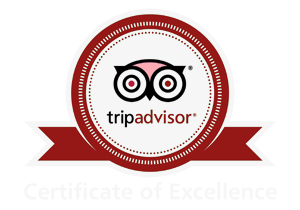
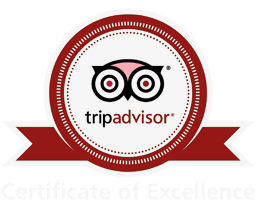
tripadvisor

Changed region(s): [[0.1868, 0.0571, 0.8093, 0.8286], [0.8093, 0.6, 0.9339, 0.7714], [0.0623, 0.6, 0.1868, 0.7714]]

diff --git a/index.html b/index.html
@@ -100,16 +100,16 @@
                 </div>
                 <div class="footer_right">
 
-                        <div class="widCOELogo">
-                            <a target="_blank" href="https://www.tripadvisor.com/Restaurant_Review-g189541-d783966-Reviews-Atlas_bar-Copenhagen_Zealand.html"><img src="img/tripadvisor.png" alt="TripAdvisor" class="widCOEImg" id="CDSWIDCOELOGO"></a>
-                        </div>
-                        <div class="widCOELink">
-                            <a target="_blank" onclick="ta.cds.handleTALink(14348,this);return true;" href="https://www.tripadvisor.com/Restaurant_Review-g189541-d783966-Reviews-Atlas_bar-Copenhagen_Zealand.html" rel="nofollow"></a>
-                        </div>
+                    <div class="widCOELogo">
+                        <a target="_blank" href="https://www.tripadvisor.com/Restaurant_Review-g189541-d783966-Reviews-Atlas_bar-Copenhagen_Zealand.html"><img src="img/tripadvisor.png" alt="TripAdvisor" class="widCOEImg" id="CDSWIDCOELOGO"></a>
+                    </div>
+                    <div class="widCOELink">
+                        <a target="_blank" onclick="ta.cds.handleTALink(14348,this);return true;" href="https://www.tripadvisor.com/Restaurant_Review-g189541-d783966-Reviews-Atlas_bar-Copenhagen_Zealand.html" rel="nofollow"></a>
                     </div>
                 </div>
-
             </div>
+
+        </div>
 
         </div>
     </section>

diff --git a/index.css b/index.css
@@ -154,6 +154,10 @@ body {
     display: flex;
     text-align: center;
     filter: invert(100%);
+    justify-content: flex-end;
+}
+.footer_right img{
+    width: 30%;
 }
 
 
